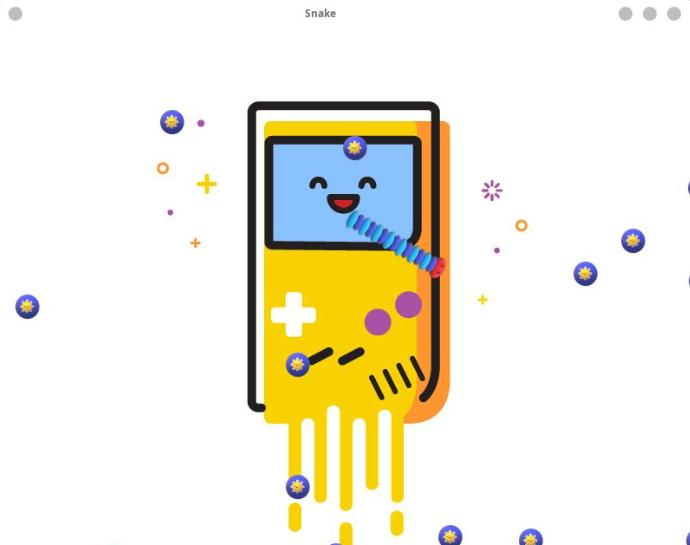
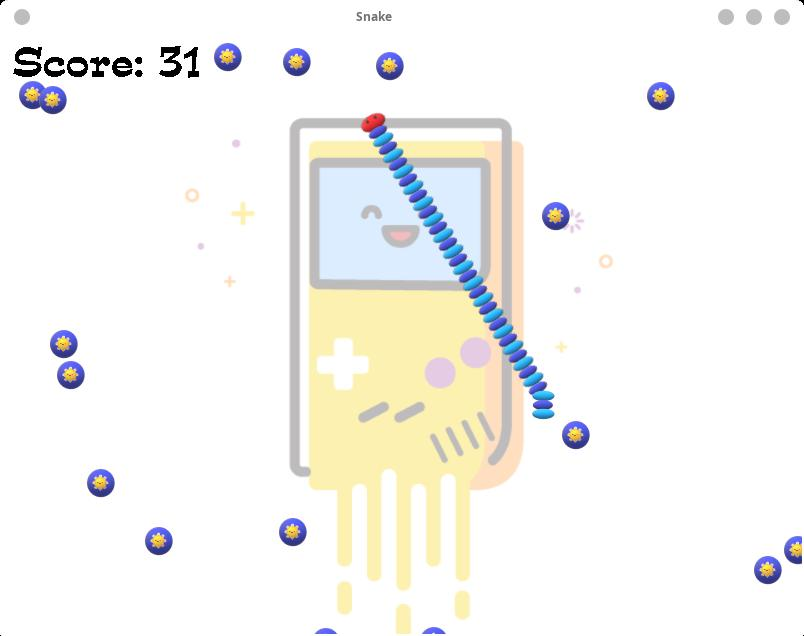
Add: Score number; Update: Transparent background

diff --git a/src/game.cpp b/src/game.cpp
@@ -10,12 +10,13 @@
 #include <iostream>
 #include <memory>
 
-Game::Game() : background()
+Game::Game() : background(), score(0)
 {
-    background.loadFromFile("./resources/background.png");
+    background.loadFromFile("./resources/background_transparent.png");
     font4TitleLost.loadFromFile("./resources/Expo.ttf", 40);
     titleLost.loadFromRenderedText("You have lost", font4TitleLost, SDL_Color{0,0,0,0x0});
 
+    font4ScoreDisplay.loadFromFile("./resources/Purisa-BoldOblique.ttf", 15);
     // create snake ==============================
     // create snake's head
     Node* head = new Node(mainwindow->windowMiddleX, mainwindow->windowMiddleY, purple);
@@ -89,6 +90,7 @@ void Game::render()
 
     snakeRender();
     foodRender();
+    scoreRender();
 
     if (gameResult == GameResultType::lost) lostRender();  
     mainwindow->update();
@@ -245,6 +247,7 @@ void Game::addFood()
 void Game::snakeCollideFood(std::shared_ptr<Food> _food)
 {
     snakeIncrease();    // increase the snake
+    score++; // nice!
     
     // remove the food
     for (auto it = food.begin(); it != food.end(); it++)
@@ -257,4 +260,12 @@ void Game::snakeCollideFood(std::shared_ptr<Food> _food)
             break;
         }
     }
+}
+
+void Game::scoreRender()
+{
+    std::string display = "Score: " + std::to_string(score);
+    scoreDisplay.loadFromRenderedText(display, font4TitleLost, SDL_Color{0,0,0,0x0});
+
+    scoreDisplay.render(10, 10);
 }

diff --git a/include/game.h b/include/game.h
@@ -43,6 +43,9 @@ private:
     std::list<Node*> snake;
     std::list<std::shared_ptr<Food>> food;
     GameResultType gameResult;
+    unsigned int score;
+    Texture scoreDisplay;
+    Font font4ScoreDisplay;
 
     int speed;
 
@@ -58,6 +61,7 @@ private:
     Pos calculateNextHeadPos(Pos head_pos);
     void handleOperatingEvents(SDL_Event e);
     virtual void controlFPS();
+    void scoreRender();
 
     // listeners
     std::shared_ptr<AudioListener> foodSoundListener;
